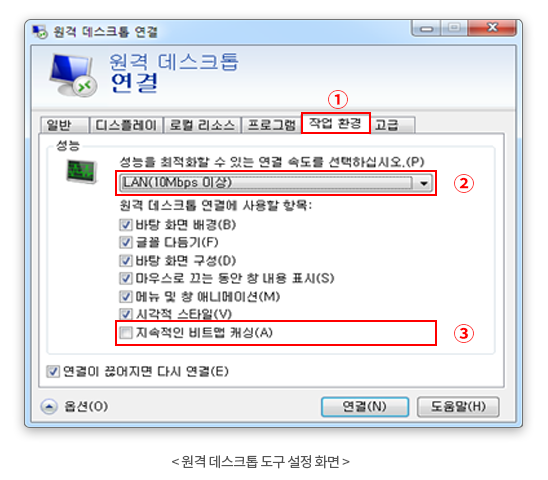
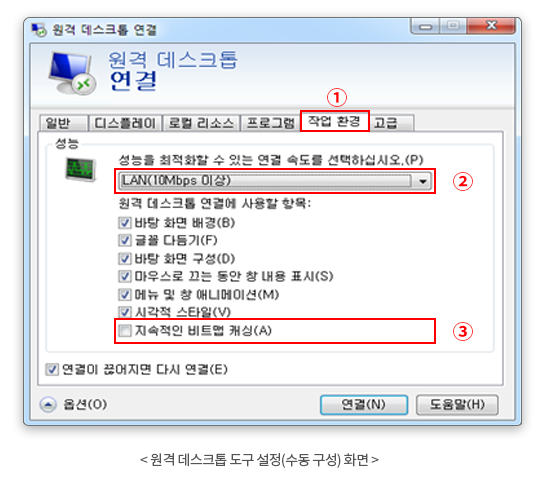
- 가이드 팝업 컨텐츠 내용 및 이미지 일부 수정

diff --git a/comm/views/guideInfo/accessGuideInfoWinConnect.html b/comm/views/guideInfo/accessGuideInfoWinConnect.html
@@ -9,7 +9,16 @@
 	</div>
 	<p class="txt_level2 pdb0">사용자PC 바탕화면의 ‘시작’ → ‘프로그램 및 파일 검색’ 입력 창에 ‘원격 데스크톱 연결’을 입력하여 원격 데스크톱 도구가 존재하는지 확인합니다.</p>
 	
-	<h4 class="pt80">2) 접속 정보 설정</h4>
+	<h4 class="pt80">2) 접속 도구 설정 - 자동 구성</h4>
+	<p class="txt_level1 blt_none">미리 준비된 파일을 이용하여 서버 접속에 필요한 설정을 자동으로 구성합니다.</p>
+	<div class="imgWrap mt30">
+		<img alt="" src="images/access_guide/access_guide_window_img08.png" alt="">
+	</div>
+	<p class="txt_level1 blt_none">①  <a href="/download/Default.RDP">Default.RDP</a> 파일을 다운로드 받아 사용자PC의 <strong>‘라이브러리\문서’</strong> 경로에 저장합니다.</p>
+	<p class="txt_level1 blt_none">②  <strong>‘원격 데스크톱 연결’</strong> 도구를 실행하고, <strong>‘열기(E)…’</strong> 버튼을 클릭합니다.</p>
+	<p class="txt_level1 blt_none">③  사용자 PC에 다운로드 받은 <strong>‘Default.RDP’</strong> 파일을 가져옵니다.</p>
+	
+	<h4 class="pt80">2) 접속 도구 설정 - 수동 구성</h4>
 	<div class="imgWrap">
 		<img alt="" src="images/access_guide/access_guide_window_img02.png" alt="">
 	</div>
@@ -50,9 +59,10 @@
 			<dt>- 접속 계정 :</dt><dd>administrator</dd>
 			<dt>- 접속 비밀번호 :</dt><dd>kepri!234</dd>
 		</dl>
+		<p class="txt_level4"><em>*</em>분석용 서버의 경우 다음 계정과 비번을 사용하세요. 계정: kepco, 비밀번호: kepco123456/</p>
 	</div>
 	
-	<div class="cnt_msg_box msg-warnning mt30">접속 계정(administrator)과 비밀번호(kepri!234)는 초기에 자동으로 설정됩니다. 보안상 비밀번호는 서버 접속 후에 반드시 변경하시기 바랍니다.</div>
+	<div class="cnt_msg_box msg-warnning mt30">접속 계정과 비밀번호는 초기에 자동으로 설정됩니다. 보안상 비밀번호는 서버 접속 후에 반드시 변경하시기 바랍니다.</div>
 	
 	<div class="imgWrap">
 		<img alt="" src="images/access_guide/access_guide_window_img06.png" alt="">

diff --git a/comm/views/guideInfo/accessGuideInfoDiskConnect.html b/comm/views/guideInfo/accessGuideInfoDiskConnect.html
@@ -18,7 +18,7 @@
 	<div class="imgWrap mt50">
 		<img alt="" src="images/access_guide/access_guide_disk_img01.png" alt="">
 	</div>
-	<p class="txt_level1 blt_none">①  <strong>‘인스턴스 SSH 접속’</strong> 을 합니다.</p>
+	<p class="txt_level1 blt_none">①  <strong>‘서버 SSH 접속’</strong> 을 합니다.</p>
 	<p class="txt_level1 blt_none">②  <strong>[lsblk] 명령을 입력</strong>하여 <strong>마운트정보를 확인</strong>합니다.</p>
 	<p class="txt_level1 blt_none">③  <strong>[sudo mkfs -t ext4 /dev/vdb]</strong> 명령을 입력하여 해당 <strong>disk(vdb)를 포맷</strong>합니다.</p>
 	<p class="txt_level1 blt_none">④  <strong>[sudo mkdir /mnt/data]</strong> 명령을 입력하여 <strong>마운트포인트(/mnt/data)를 생성</strong>합니다.</p>

diff --git a/css/content.css b/css/content.css
@@ -2717,6 +2717,8 @@ p.no-txt{
 .accss_guideWrap .txt_level_list dl dd {float:left; color:#1360ec; padding-left:3px;}
 
 .accss_guideWrap {margin-bottom:30px;}
+.accss_guideWrap a {color:#3975ee;}
+.accss_guideWrap a:hover {text-decoration:underline;}
 
 .guide_t_menu {margin:100px 0 30px 0;}
 .guide_t_menu ul li {display:inline-block;}
